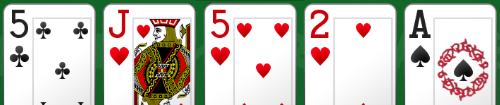
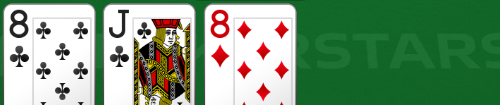
Add cards

diff --git a/src/main/java/alex/valker91/ImageCropExample.java b/src/main/java/alex/valker91/ImageCropExample.java
@@ -19,10 +19,10 @@ public class ImageCropExample {
             int cropStartY = 0; // Начало обрезки по Y (0 пикселей от верхнего края)
 
             // Выполняем обрезку
-            BufferedImage croppedImage = originalImage.getSubimage(cropStartX+401, cropStartY+3, 95, originalImage.getHeight()-4);
+            BufferedImage croppedImage = originalImage.getSubimage(cropStartX+201, cropStartY+3, 95, originalImage.getHeight()-4);
 
             // Сохраняем обрезанное изображение
-            File outputFile = new File("C:\\Users\\Aliaksandr_Kreyer\\Desktop\\my\\PokerScreen\\src\\main\\resources\\cards\\Error_spades.png");
+            File outputFile = new File("C:\\Users\\Aliaksandr_Kreyer\\Desktop\\my\\PokerScreen\\src\\main\\resources\\cards\\8_diamonds.png");
             ImageIO.write(croppedImage, "png", outputFile);
 
             System.out.println("Изображение успешно обрезано и сохранено!");

diff --git a/src/main/java/alex/valker91/Main.java b/src/main/java/alex/valker91/Main.java
@@ -37,7 +37,7 @@ public class Main {
 //        BufferedImage screenshot = new Robot().createScreenCapture(
 //                new Rectangle(Toolkit.getDefaultToolkit().getScreenSize())
 //        );
-        File screenshotFile = new File("screenshot_4_cards.png");
+        File screenshotFile = new File("screenshot_3_cards.png");
 //        ImageIO.write(screenshot, "png", screenshotFile);
 
         // 2. Загрузка изображения в OpenCV
